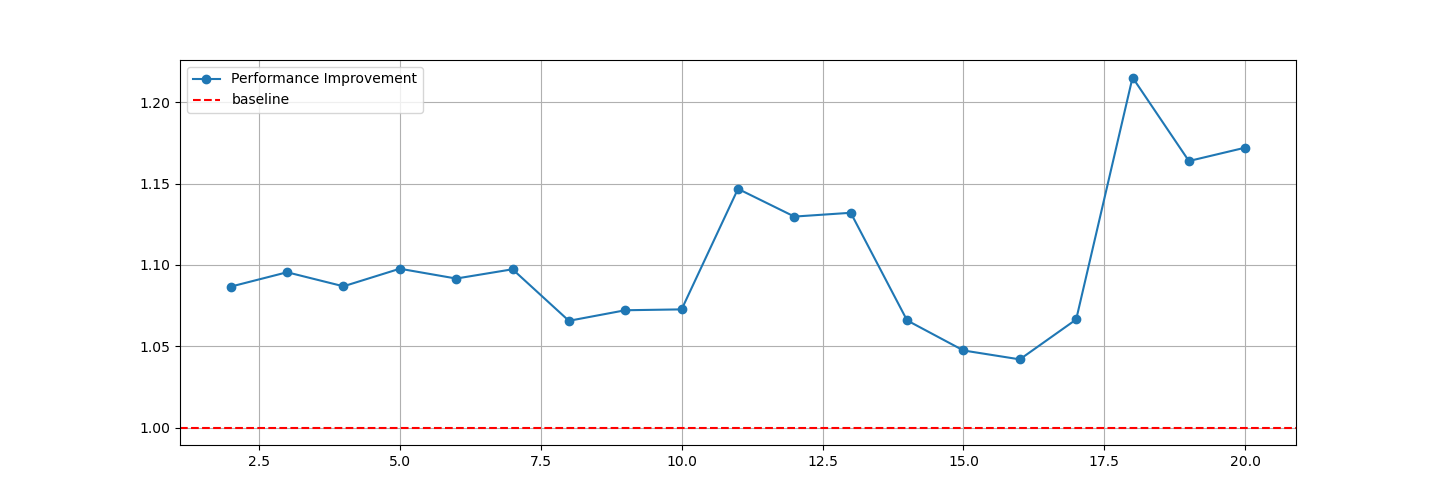
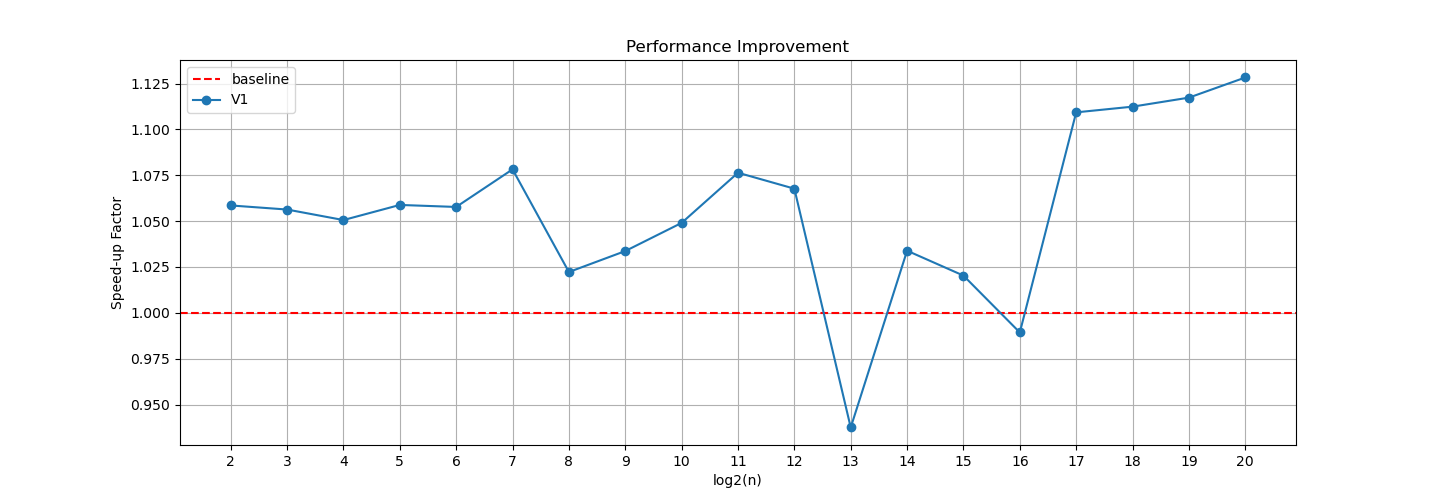
major chanage

diff --git a/content/posts/faster-rfft-python/index.md b/content/posts/faster-rfft-python/index.md
@@ -12,11 +12,11 @@ series = []
 +++
 
 
-Real Fast Fourier Transform (RFFT) is an algorithm that converts a real-valued signal from its time domain into its frequency components. Different libraries in python, such as NumPy, SciPy, and [pyFFTW](https://pyfftw.readthedocs.io/en/latest/source/pyfftw/builders/builders.html), provide an API for RFFT. However, their performance can vary. The focus of this post is to demonstrate how to use pyFFTW properly. pyFFTW is a Python wrapper for the [FFTW](https://www.fftw.org), which is known for its speed and efficiency in computing Fourier transforms. 
+Real Fast Fourier Transform (RFFT) converts a real-valued signal from the time domain to the frequency domain. Different libraries in python, such as NumPy, SciPy, and [pyFFTW](https://pyfftw.readthedocs.io/en/latest/source/pyfftw/builders/builders.html), provide an API for RFFT. However, their performance can vary. The focus of this post is to demonstrate how to use pyFFTW properly. pyFFTW is a Python wrapper for [FFTW](https://www.fftw.org), which is known for its speed in computing Fourier transforms.
 
 
 ## Installation
-[FFTW](https://www.fftw.org) is one of the requirements of pyFFTW that needs to be installed first, and it does not come bundled with pyFFTW. The easiest way to install it is through `conda`. I assume you have `conda` installed, and you know how to create and activate a conda environment. The minimum python version for pyFFTW is `3.11` (as of November 2025).
+[FFTW](https://www.fftw.org) is one of the requirements of pyFFTW and it does not come bundled with pyFFTW. You can install it through `conda`. I assume you have `conda` installed, and you know how to create and activate a conda environment. See [pyFFTw's github page](https://github.com/pyFFTW/pyFFTW) to learn more about pyFFTW installation, inclduing the minimum python version requirement.
 
 Once you are in your environment, install `FFTW` by running the following command:
 ```bash
@@ -30,11 +30,7 @@ conda install conda-forge::pyfftw
 ``` 
 
 
-Now, we are ready to use pyFFTW in our code!
-
-
-## Example Code
-The following code demonstrates how to use pyFFTW to perform RFFT on a real-valued signal. 
+Now, we are ready to use pyFFTW! The following code demonstrates how to use pyFFTW to perform RFFT on a real-valued array. 
 
 ```python
 import numpy as np
@@ -43,24 +39,17 @@ import pyfftw
 T = np.random.rand(4)
 rfft_obj = pyfftw.builders.rfft(np.empty(len(T), dtype='float64'))
 R = rfft_obj(T)
-
-# verify the result
-R_ref = np.fft.rfft(T)
-np.testing.assert_allclose(R, R_ref)
 ```
 
-In this code, we created a RFFT object using `pyfftw.builders.rfft`. We then use this object to compute the RFFT of the real-valued array `T`. Finally, we verify the result by comparing it with the output of NumPy's RFFT. 
-
-
 ## Performance Optimization
-The RFFT on arrays with different sizes can have different performance. The performance of RFFT can be significantly improved when input arrays have specific sizes (e.g., powers of two). Here we consider input sizes that are powers of two, and try to find ways to improve the performnace of RFFT in those cases. 
+The RFFT on arrays with different sizes can have different performance. The performance of RFFT can be significantly improved when input arrays have specific sizes (e.g., powers of two). Here we consider input sizes that are powers of two, and try to find ways to improve the performnace of RFFT further in those cases. 
 
 
 ### Timing
-Let's start by preparing a script that can get the timing of RFFT computation using pyFFTW.
+Let's start by preparing a script that can get the timing of RFFT computation.
 
 ```python
-def _get_timing_single(n, rfft_caller, timeout=5.0):
+def _get_timing_single(n, rfft_caller, timeout=5.0, iter_max=100000):
     """
     For a single input size n, return the time taken to compute RFFT using rfft_caller
     """
@@ -68,12 +57,11 @@ def _get_timing_single(n, rfft_caller, timeout=5.0):
     T = np.random.rand(n)
 
     R = rfft_caller(T) # dummy to create wisdom
-    R_ref = np.fft.rfft(T)
-    np.testing.assert_allclose(R, R_ref)
+    np.testing.assert_allclose(R, np.fft.rfft(T))  # verify correctness
 
     total_time = 0.0
     count = 0
-    while total_time < timeout:
+    while total_time < timeout and count < iter_max:
         start_time = time.perf_counter()
         rfft_caller(T)
         total_time += time.perf_counter() - start_time
@@ -82,7 +70,7 @@ def _get_timing_single(n, rfft_caller, timeout=5.0):
     return total_time / count
 
 
-def get_timing(n_values, rfft_caller, timeout=5.0, verbose=True):
+def get_timing(n_values, rfft_caller, timeout=5.0, iter_max=1000000, verbose=True):
     """
     n_values: an array of input sizes
     """
@@ -90,30 +78,17 @@ def get_timing(n_values, rfft_caller, timeout=5.0, verbose=True):
     for i, n in enumerate(n_values):
         if verbose:
             print(f"log2(n) --> {int(np.log2(n))}", flush=True)
-        timing[i] = _get_timing_single(n, rfft_caller, timeout=timeout)
+        timing[i] = _get_timing_single(n, rfft_caller, timeout=timeout, iter_max=iter_max)
     return timing
 ```
 
-
-Let's start with a baseline implementation of RFFT using pyFFTW.
-
-### Baseline (V0)
-```python
-import numpy as np
-import pyfftw
-import time
+There are a few things to note in the above code:
+1. We use `pyfftw.forget_wisdom()` to clear all previously-stored plans (wisdoms). This is to make sure that we start fresh
+2.  Once wisdom is obtained, no need to be re-computed in the same session again. Therefore, there is a dummy run to compute the wisdom plan in advance. Therefore, the wisdom overhead is not counted in the timing.
+3. We verify the correctness of the RFFT result by comparing it with NumPy's RFFT output.
 
 
-def rfft_caller_v0(T):
-    """
-    Create and return a RFFT caller function for input size n
-    """
-    rfft_obj = pyfftw.builders.rfft(np.empty(len(T)))
-    
-    return rfft_obj(T)
-```
-
-And before moving further, let's prepare a script that is flexible enough to run different versions of the timing function, and plot the performance results:
+Now that we have the timing function ready, we can start exploring different implementations of RFFT using pyFFTW to see how we can improve the performance. But, first, let's prepare a script that can help us get the timing results for different implementations and plot the performance improvement.
 
 ```python
 rfft_callers = {
@@ -157,15 +132,25 @@ plt.legend()
 plt.show()
 ```
 
-There a few things to note in the above code:
-1. We use `pyfftw.forget_wisdom()` to clear any previous plans. This is to make sure tha we start fresh
-2. We run a pyfftw's object to initialize the wisdom. So, the wisdom overhead is not counted in the timing.
-3. We verify the correctness of the RFFT result by comparing it with NumPy's RFFT output.
+We are now ready to explore different implementations of RFFT using pyFFTW and see how we can improve the performance! Let's start with a baseline implementation of RFFT using pyFFTW.
 
-Let's see how we can improve the performance!
+### Baseline (V0)
+```python
+import numpy as np
+import pyfftw
+
+
+def rfft_caller_v0(T):
+    """
+    Create and return a RFFT caller function for input size n
+    """
+    rfft_obj = pyfftw.builders.rfft(np.empty(len(T)))
+    
+    return rfft_obj(T)
+```
 
 ### First Attempt: Byte-align the input array in advance (V1)
-To improve the performance, `pyfftw` internally byte-aligns the input array. One idea is to create a byte-aligned array in advance, and reuse this array. This allows to avoid unnecessary copies of the input data that might happen within the RFFT computation. 
+`pyfftw` internally byte-aligns the input array by default to provide better performance. One potential optimization is to create a byte-aligned array in advance, and reuse this array. This allows `pyfftw` to avoid unnecessary copies of the input data that might happen within the RFFT computation.  We can allow allow pyfftw to overwrite our array as it should not affect our original data.
 
 ```python
 class rfft_caller_v1:
@@ -183,15 +168,7 @@ class rfft_caller_v1:
         return rfft_obj.output_array
 ```
 
-In this modified version, an instance of the class `rfft_caller_v1` can be used to compute the RFFT. It holds the byte-aligned array `real_arr`, as an attribute, after the first call. When the `__call__` method is invoked again, it checks if the size of the input array `T` matches the size of the existing aligned array, and if yes, it reuses the existing byte-aligned array. Let's update the dictionary `rfft_callers` to include this new version:
-
-```python
-rfft_callers = {
-    'V0': rfft_caller_v0,
-    'V1': rfft_caller_v1(),
-}
-```
-Now, let's run the timing script to see the performance improvement:
+In this modified version, an instance of the class `rfft_caller_v1` can be used to compute the RFFT. It holds the byte-aligned array `real_arr`, as an attribute, after the first call. When the `__call__` method is invoked again, it checks if the size of the input array `T` matches the size of the existing aligned array, and if yes, it reuses the existing byte-aligned array. Now, let's check out the performance improvement:
 
 ![Performnance Gain](Figure_Performance_V1.png)
 
